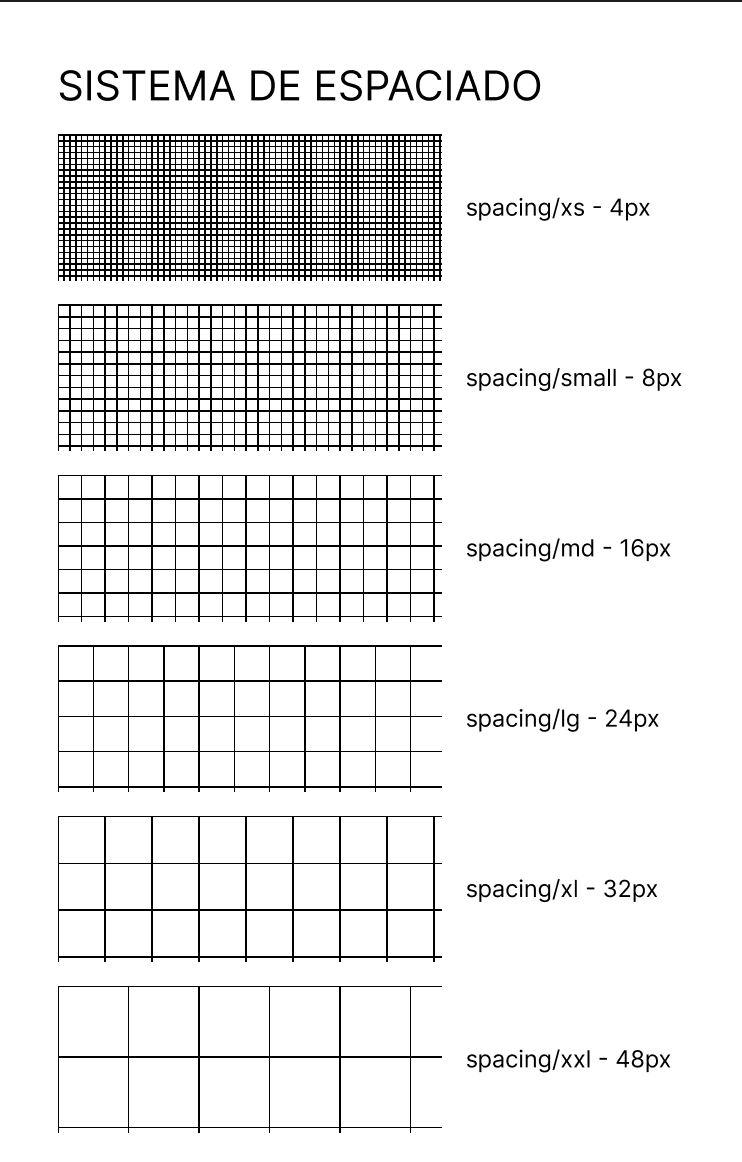
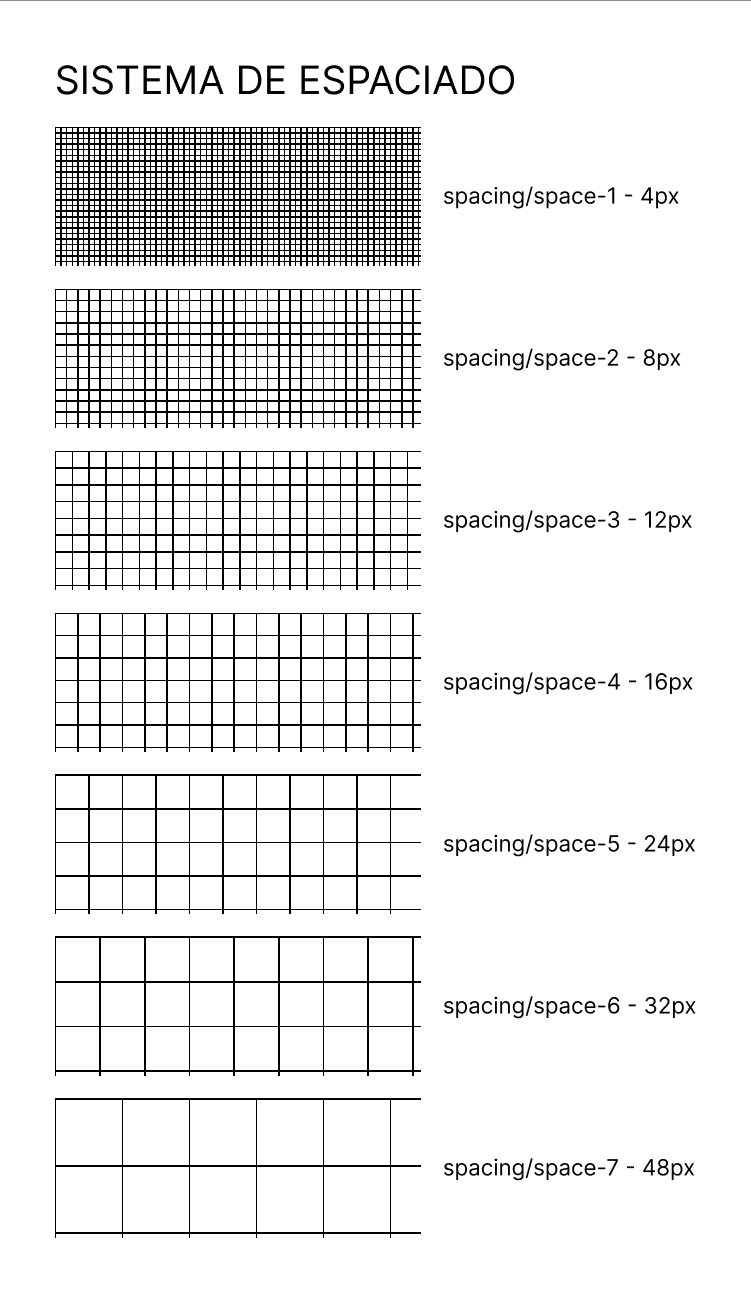
docs: update design system documentation with new assets and refined content

diff --git a/frontend/docs/design-system.md b/frontend/docs/design-system.md
@@ -1,75 +1,98 @@
-# Kontrol Design System v2.0 
-**Project:** Kontrol - Management for Micro-businesses (Librería Ana González)  
-**Theme:** Luxury Dark Mode (Black & Gold)
-**Figma File:** [View Design System here](https://www.figma.com/design/qDDZC8ZvzDhXHRzDl6bbHi/Kontrol---Identidad-visual-v2?node-id=1-2&t=DvxRuG3wWGDLcbZE-1)
+# Kontrol Design System v2.0 (HU-32)
 
-## 1. Business Identity & Goal
-The goal of this design system is to provide a consistent, high-end experience that transforms informal management into a professional digital environment. The "Luxury" aesthetic builds trust and clarity for owners and collaborators.
+**Project:** Kontrol - Management for Micro-businesses  
+**Visual Identity:** Luxury Dark Mode (Gold & Black)  
+**Status:** Fully synchronized with `globals.css`
 
-## 2. Color Palette
-Our colors are optimized for high contrast on OLED screens and professional readability.
+---
 
-| Token | Hex | Opacity | Usage |
+## 1. Identity & Goal
+The Kontrol Design System is built to transform fragmented, informal business management into a high-end, centralized digital experience. By using a **"Luxury Dark"** aesthetic, we provide a focused environment that emphasizes financial health and professional growth.
+
+## 2. Color Palette (Tokens & Variables)
+Our color system is divided into functional groups to ensure consistency between design and code.
+
+### Core Colors
+| Figma Token | CSS Variable | Hex/Value | Usage |
 | :--- | :--- | :--- | :--- |
-| `color/primary` | #CAA860 | 100% | Brand gold, primary actions, titles. |
-| `color/primary-dark`| #B27F2A | 100% | Borders for active states and secondary buttons. |
-| `color/bg-base` | #000000 | 100% | Main background (Pure black). |
-| `color/bg-surface` | #0A0A0A | 100% | Cards, modals, and internal panels. |
-| `color/text-main` | #FAF8F5 | 100% | Primary reading text (Off-white). |
-| `color/text-muted` | #808080 | 100% | Captions, dates, and placeholders. |
+| `color/primary` | `--Primary` | `#caa860` | Main brand gold. |
+| `color/primary2` | `--Primary2` | `#b27f2a` | Secondary gold / Active states. |
+| `color/Background` | `--Background` | `rgba(0,0,0,0.92)` | Base layer background. |
+| `color/Background2` | `--Background2` | `#120f07` | Main surface / Card background. |
+| `color/Text` | `--Text` | `#faf8f5` | Primary high-contrast text. |
 
-## 3. Typography Scale
-We use a combination of Serif for elegance and Sans-Serif for operational data.
-- **Titles:** `Playfair Display` (Serif)
-- **Body & Data:** `DM Sans` (Sans-Serif)
+### Text & Semantic Ramp
+*   **Text Hierarchy:** 
+    *   `--TextSoft`: `#cfc9bf` (Secondary high)
+    *   `--TextMuted`: `#989083` (Secondary)
+    *   `--TextDim`: `#6e6558` (Tertiary / Meta)
+    *   `--TextFaint`: `#565045` (Disabled)
+    *   `--TextPlaceholder`: `#4a4030`
+*   **Status Colors:** 
+    *   `--Success`: `rgb(15, 77, 15)`
+    *   `--Error`: `rgb(128, 13, 13)`
+    *   `--Warning`: `rgb(120, 80, 10)`
+*   **Form Elements:** 
+    *   `--InputBg`: `rgba(255, 255, 255, 0.04)`
+    *   `--InputFocusBg`: `rgba(202, 168, 96, 0.05)`
+    *   `--BtnText`: `#0e0c08`
 
-| Token | Font | Size | Weight | Usage |
-| :--- | :--- | :--- | :--- | :--- |
-| `font/display` | Playfair | 48px | Bold | Page Main Titles |
-| `font/heading-1` | Playfair | 24px | SemiBold| Section Headers / Cards |
-| `font/body-large` | DM Sans | 16px | Medium | Important Labels |
-| `font/body-main` | DM Sans | 14px | Regular | General Reading |
-| `font/caption` | DM Sans | 11px | Bold | Pills / Badges (All Caps) |
+## 3. Typography System
+We use a dual-font strategy to balance elegance with readability.
+
+*   **Titles (Display):** `Playfair Display` (Serif) - Assigned to `--font-display`.
+*   **UI & Data:** `Manrope` (Sans-Serif) - Assigned to `--font-sans`.
+*   **Technical:** `JetBrains Mono` - Assigned to `--font-mono`.
+
+### Typographic Scale
+| Token | Size (px) | Size (rem) | Usage |
+| :--- | :--- | :--- | :--- |
+| `text-3xl` | 42px | 2.625rem | Main Dashboard titles. |
+| `text-xl` | 24px | 1.5rem | Section headers and card titles. |
+| `text-base` | 14px | 0.875rem | Default UI body text. |
+| `text-2xs` | 11px | 0.6875rem | Captions, pills, and metadata. |
 
 ## 4. Spacing System (8pt Grid)
-Ensures visual rhythm and mathematical consistency across layouts.
-- `spacing/xs`: 4px
-- `spacing/small`: 8px
-- `spacing/md`: 16px
-- `spacing/lg`: 24px
-- `spacing/xl`: 32px
-- `spacing/xxl`: 48px
+We use a fixed scale to ensure mathematical harmony in the layout.
+
+*   **space-1:** 4px
+*   **space-2:** 8px
+*   **space-3:** 12px
+*   **space-4:** 16px
+*   **space-5:** 24px
+*   **space-6:** 32px
+*   **space-8:** 48px
 
 ## 5. Corner Radii
-Subtle curves to maintain an elegant and modern look.
-- `radius/small`: 4px (UI Controls, Inputs, Buttons)
-- `radius/medium`: 8px (Standard Cards)
-- `radius/large`: 12px (Modals & Overlays)
-- `radius/full`: 999px (Status Badges / Pills)
+Subtle rounded corners maintain the "Luxury" feel without appearing too informal.
+
+*   **radius-sm:** 4px (Buttons, Inputs).
+*   **radius-md:** 8px (Standard Cards).
+*   **radius-lg:** 12px (Modals & Overlays).
+*   **radius-pill:** 9999px (Status Badges / Avatars).
 
 ## 6. Elevation & Shadows
-Specifically designed to provide depth in dark interfaces without losing elegance.
-- **Shadow/Card:** `0, 4, 20, 0, rgba(0,0,0, 0.5)` - Provides depth for surfaces.
-- **Shadow/Glow:** `0, 0, 15, 5, #CAA860 (50% Opacity)` - Used for Hover states to represent gold illumination.
-- **Shadow/Modal:** `0, 10, 40, 0, rgba(0,0,0, 0.8)` - Top layer focus for pop-ups.
+Designed specifically for dark backgrounds using "Glow" effects to provide depth.
 
-## 7. Iconography
-- **Library:** Lucide Icons / Heroicons.
-- **Grid Size:** 24x24px bounding box.
-- **Stroke Weight:** 1.5px for a clean, modern aesthetic.
-- **Color Logic:** Gold for active states; Muted Gray for inactive elements.
+*   **Shadow/Card:** `0, 4, 20, 0, rgba(0,0,0, 0.5)` - Depth for surface elements.
+*   **Shadow/Glow:** `0, 0, 15, 5, #caa860 (50% Opacity)` - Used for gold interactive elements (Hover).
+*   **Shadow/Modal:** `0, 10, 40, 0, rgba(0,0,0, 0.8)` - Focus for top-layer components.
 
-## 8. Interaction States
-- **Normal:** 100% color, no elevation.
-- **Hover:** 115% brightness increase + `shadow/glow` effect.
-- **Active (Click):** 0.98 scale transform (press feedback).
-- **Disabled:** 30% opacity + `cursor: not-allowed`.
+## 7. Interaction States
+*   **Hover:** 115% brightness increase + `shadow/glow`.
+*   **Active (Pressed):** 0.98 scale transform for tactile feedback.
+*   **Disabled:** 30% opacity + `cursor: not-allowed`.
+*   **Focus:** 2px solid `--Primary` with 2px offset for keyboard navigation.
 
-## 9. Accessibility & Contrast (WCAG 2.1)
-We prioritize legibility for users with diverse visual conditions.
-- **Text Contrast:** Main body text (#FAF8F5) on base black (#000000) yields a **14.2:1 contrast ratio**, exceeding the AAA standard.
-- **UI Elements:** Gold highlights (#CAA860) on surface black (#0A0A0A) yield a **6.8:1 contrast ratio**, meeting the AA standard.
-- **Interactive Targets:** All buttons maintain a minimum height of 44px to comply with touch-target guidelines.
+## 8. Iconography
+*   **Library:** Lucide Icons / Heroicons.
+*   **Stroke Weight:** 1.5px (Fine/Modern).
+*   **Sizing:** 24x24px bounding box for touch targets.
+
+## 9. Accessibility (WCAG 2.1 Compliance)
+*   **Primary Contrast:** `--Text` (#faf8f5) on `--Background` (black) is **14.2:1** (Passes AAA).
+*   **Interactive Contrast:** `--Primary` (#caa860) on `--Background2` (#120f07) is **6.8:1** (Passes AA).
+*   **Target Size:** All interactive elements maintain a minimum height of 40px for mobile accessibility.
 
 ## Visual Reference
 ![Paleta de Colores](./assets/Colores.png)
